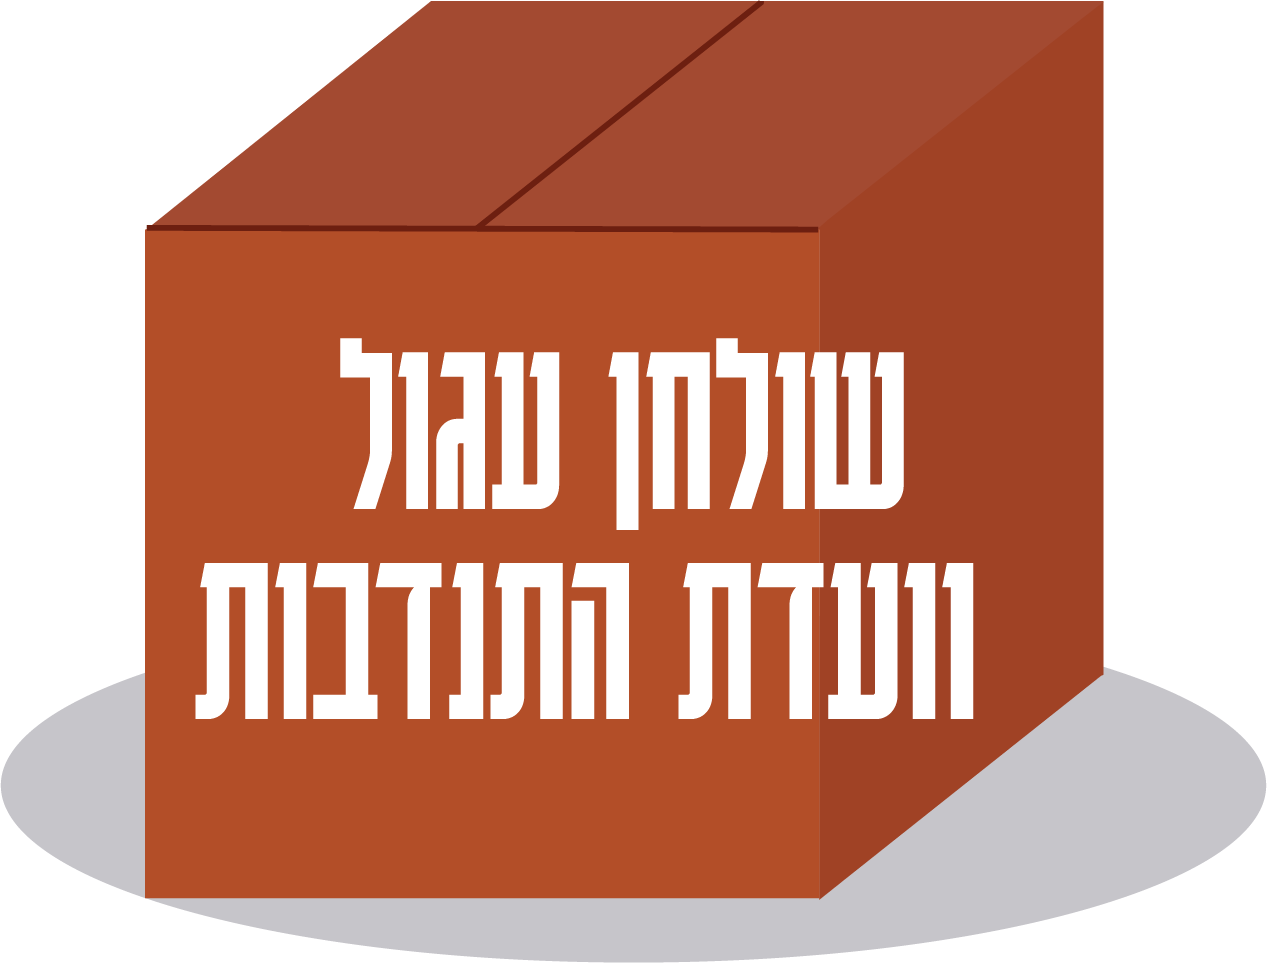
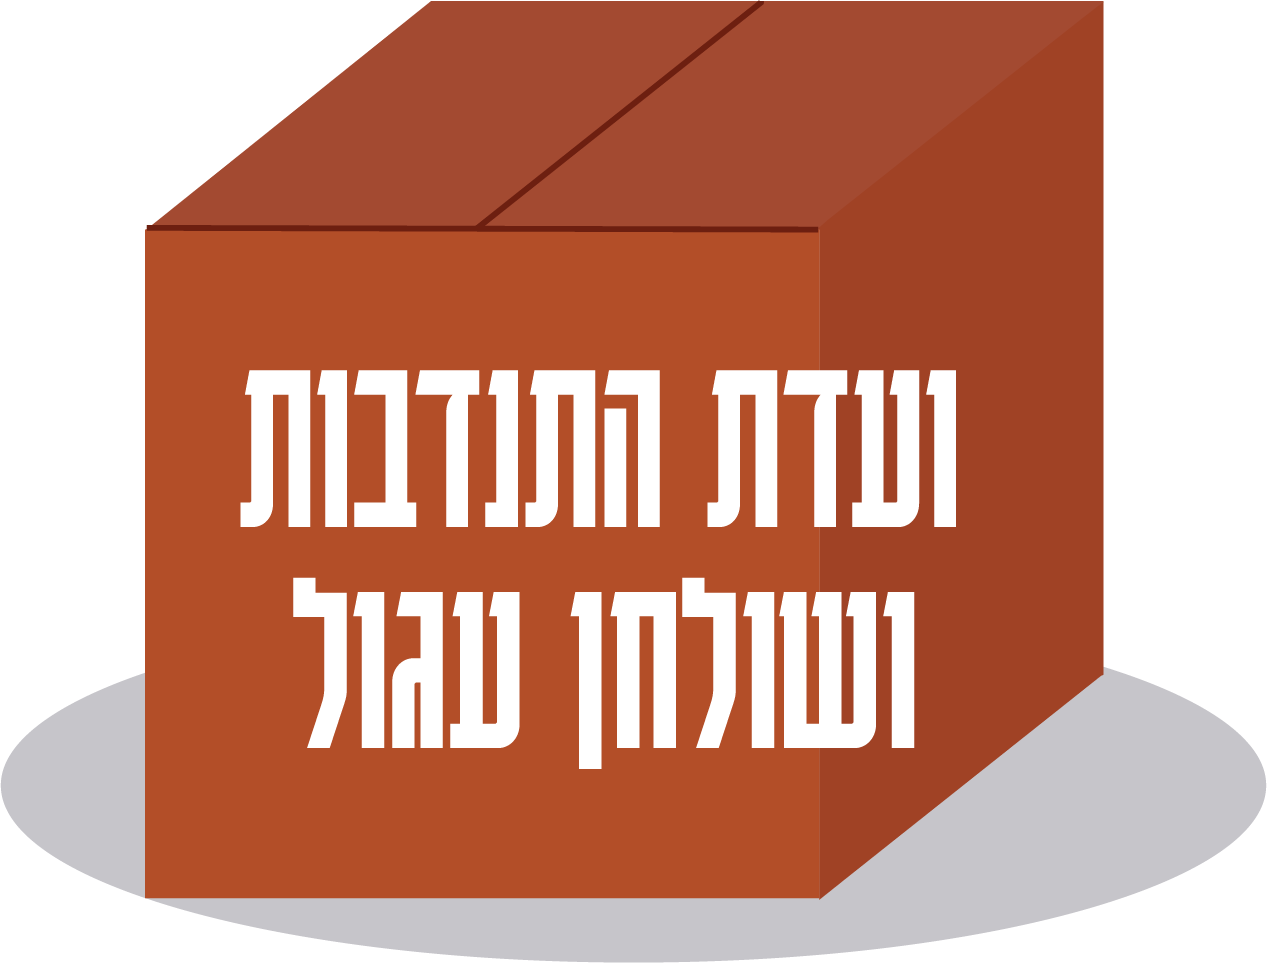
תיקוני תוכן 30.09

Changed region(s): [[0.1539, 0.3427, 0.7695, 0.81]]

diff --git a/src/data/TableData.js b/src/data/TableData.js
@@ -3,7 +3,7 @@ const TableData = [
     {
         id: 1,
         logoSrc: `${process.env.PUBLIC_URL}/assests/imgs/logos/מידע כללי.png`,
-        title: "מידע כללי על הוועדות",
+        title: "הועדה לתיאום וארגון ההתנדבות",
         text: [
             <>
                 1.  תחום ההתנדבות ברשות המקומית הינו תחום רחב החולש על מגוון יכולות שמהווים מכפיל כוח ליכולתה של הרשות לטפל בתחומים השונים בשגרה ובחירום.
@@ -85,7 +85,7 @@ const TableData = [
     {
         id: 4,
         logoSrc: `${process.env.PUBLIC_URL}/assests/imgs/logos/סיכום החלטות.png`,
-        title: "סיכום החלטות הועדה:",
+        title: "סיכום החלטות הועדה",
         text: [
             <>
                 1. החלטות הוועדה יאושרו על ידי ראש הרשות או המנכ"ל, ולאחר מכן יחייבו את גופי הרשות. החלטות הנוגעות לגורמי חוץ, יתואמו ויסוכמו עם נציגי הגורמים הנוגעים בדבר.

diff --git a/src/componentsJs/Table.js b/src/componentsJs/Table.js
@@ -13,7 +13,7 @@ function Table() {
     return (
         <Cards 
             data={TableData}
-            title='שולחן עגול ברשות המקומית והוועדה להתנדבות'
+            title='הועדה להתנדבות ושולחן עגול ברשות המקומית'
             dataType="TableData"
             updateCompleted={updateCompleted}
             index={2}
